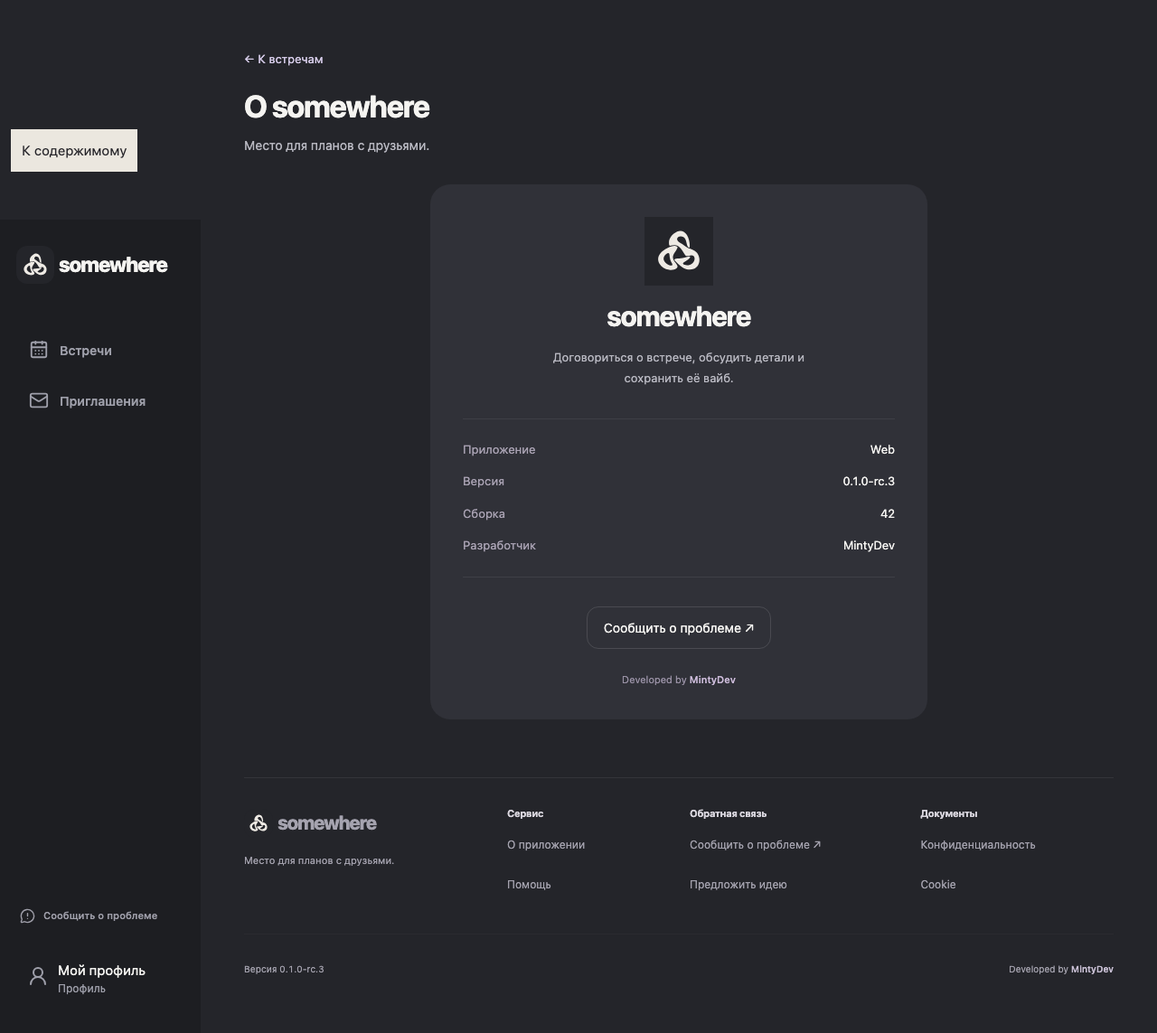
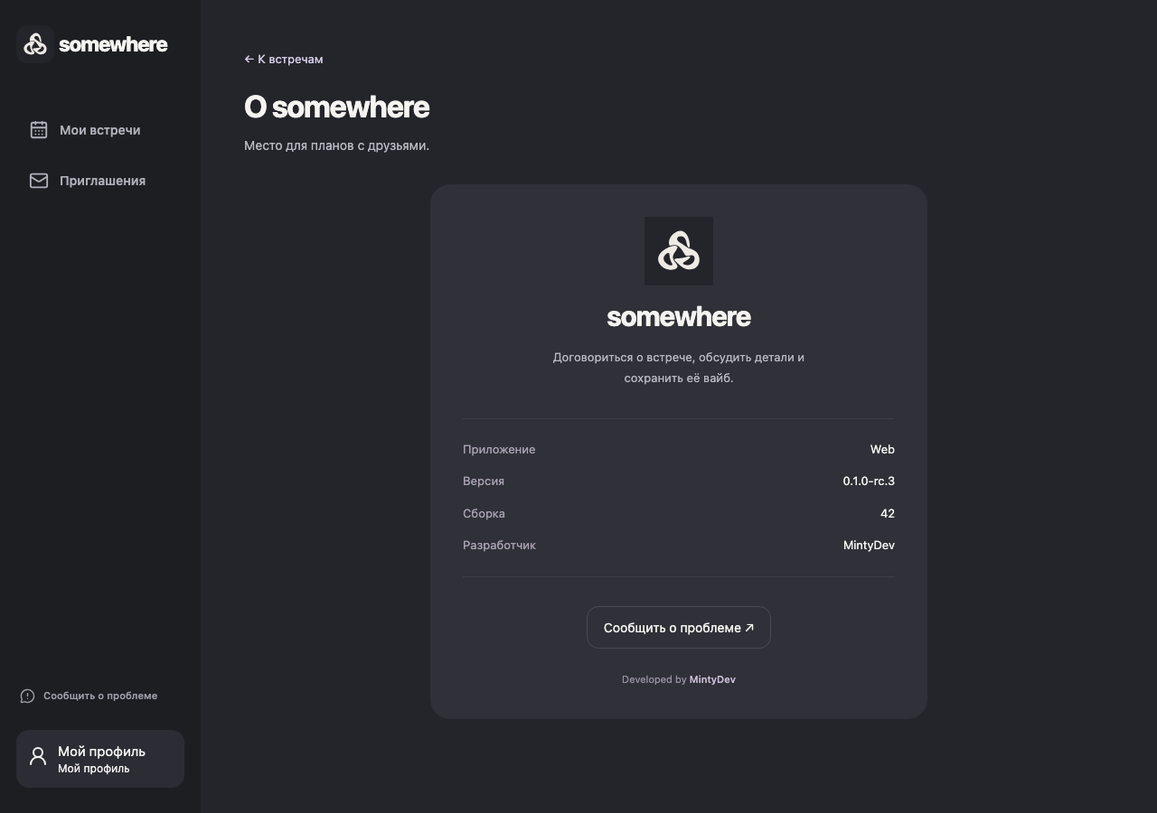
test(releases): restrict version footer to desktop onboarding

diff --git a/frontend/web/release-tests/identity.spec.ts b/frontend/web/release-tests/identity.spec.ts
@@ -48,15 +48,14 @@ test('full version is from the unpacked artifact, without login or API', async (
       .filter({ hasText: /^Сборка$/ })
       .locator('+ dd'),
   ).toHaveText(String(info.build_number));
-  const footer = page.locator('footer');
-  await expect(footer.getByText(`Версия ${info.version}`, { exact: true })).toBeVisible();
+  await expect(page.locator('footer')).toHaveCount(0);
 
   for (const width of [320, 390, 1280]) {
     await page.setViewportSize({ width, height: 900 });
-    await footer.scrollIntoViewIfNeeded();
     await expect(
-      footer.getByText(`Версия ${info.version}`, { exact: true }),
+      page.locator('dl').getByText(info.version, { exact: true }),
     ).toBeVisible();
+    await expect(page.locator('footer')).toHaveCount(0);
     expect(
       await page.evaluate(() => document.documentElement.scrollWidth <= innerWidth),
     ).toBe(true);
@@ -68,23 +67,69 @@ test('full version is from the unpacked artifact, without login or API', async (
 
   await page.setViewportSize({ width: 320, height: 900 });
   await enlargeText(page);
-  await expect(footer.getByText(`Версия ${info.version}`, { exact: true })).toBeVisible();
+  await expect(page.locator('dl').getByText(info.version, { exact: true })).toBeVisible();
   expect(
     await page.evaluate(() => document.documentElement.scrollWidth <= innerWidth),
   ).toBe(true);
+  await page.screenshot({
+    path: path.join(root, 'version-320-large-text.png'),
+    fullPage: true,
+  });
+});
+
+test('version footer appears only on desktop onboarding', async ({
+  page,
+  request,
+  browser,
+}) => {
+  await request.post('/__test/select?variant=candidate');
+  const info = readInfo('candidate');
+  await page.route('**/api/**', (route) => route.abort());
+  await page.setViewportSize({ width: 1280, height: 900 });
+  await page.goto('/');
+  const footer = page.locator('footer');
   const versionLink = footer.getByRole('link', {
     name: `Версия ${info.version}`,
     exact: true,
   });
 
+  await expect(footer).toHaveCount(1);
+  await expect(versionLink).toBeVisible();
+  await footer.screenshot({ path: path.join(root, 'version-onboarding-1280.png') });
+
+  for (const width of [320, 390, 739]) {
+    await page.setViewportSize({ width, height: 900 });
+    await expect(footer).toBeHidden();
+  }
+
+  await page.setViewportSize({ width: 740, height: 900 });
+  await expect(versionLink).toBeVisible();
+  await page.setViewportSize({ width: 1280, height: 900 });
+  await enlargeText(page);
   await versionLink.focus();
+  await expect(versionLink).toHaveAccessibleName(`Версия ${info.version}`);
   await expect(versionLink).toBeFocused();
   await page.keyboard.press('Enter');
   await expect(page).toHaveURL('/about');
-  await page.screenshot({
-    path: path.join(root, 'version-320-large-text.png'),
-    fullPage: true,
+  await expect(page.locator('dl').getByText(info.version, { exact: true })).toBeVisible();
+  await expect(footer).toHaveCount(0);
+
+  const phone = await browser.newPage({
+    viewport: { width: 844, height: 390 },
+    isMobile: true,
+    hasTouch: true,
   });
+
+  try {
+    await phone.goto(new URL('/', page.url()).toString());
+    await expect(phone.getByRole('heading', { level: 1 })).toContainText('Кто придёт');
+    expect(await phone.evaluate(() => matchMedia('(pointer: coarse)').matches)).toBe(
+      true,
+    );
+    await expect(phone.locator('footer')).toBeHidden();
+  } finally {
+    await phone.close();
+  }
 });
 
 test('an open tab keeps its identity through deployment and rollback', async ({
@@ -131,12 +176,7 @@ test('a long RC is readable at 320 px with enlarged text', async ({ page, reques
   expect(
     await page.evaluate(() => document.documentElement.scrollWidth <= innerWidth),
   ).toBe(true);
-  const link = page
-    .locator('footer')
-    .getByRole('link', { name: `Версия ${info.version}`, exact: true });
-
-  await expect(link).toHaveAccessibleName(`Версия ${info.version}`);
-  await link.click({ trial: true });
+  await expect(page.locator('footer')).toHaveCount(0);
   await page.screenshot({
     path: path.join(root, 'version-long-320.png'),
     fullPage: true,

diff --git a/openspec/changes/release-version-policy/implementation.md b/openspec/changes/release-version-policy/implementation.md
@@ -18,7 +18,9 @@
   ограничения, файлы с размерами. Секреты в карточку не включаются.
 - Web получает встроенную идентичность и `build-info.json` из одного
   проверенного объекта. Сокращения SemVer и fallback из package.json нет.
-  Футер показывает полный номер, справка — тот же номер и отдельную сборку.
+  Футер только десктопного онбординга показывает полный номер, справка на всех
+  размерах экрана — тот же номер и отдельную сборку. Внутренние страницы и
+  mobile web не содержат видимого футера; native-футер не добавляется.
   Dev/demo имеют собственные подписи. Запрос к API за версией не выполняется.
 - Проверка архива сравнивает его идентичность с manifest даже при корректно
   пересчитанных SHA256. Отдельный browser smoke открывает распакованный bundle.
@@ -31,9 +33,9 @@
 | --- | --- |
 | `python3 -m unittest discover -s scripts/release -p 'test_*.py'` | 28 passed: реальные временные Git-репозитории, RC/финал/rerun Android/iOS, порядок и независимость тегов, карточка/SHA, полный набор всех пяти компонентов, подмена версии/карточки, неизменяемость публикации, безопасная распаковка |
 | `vitest run scripts/build-identity.test.ts` | 4 passed: strict metadata, stable/RC/dev/demo/неполные данные, посторонняя VITE_APP_VERSION, разделение версии и сборки |
-| `validate_web_builds.py --output .cache/release-policy-ui-4` | Три сборки TypeScript/Vite; 3 browser tests passed |
+| `validate_web_builds.py --output .cache/release-policy-ui-8` | Три сборки TypeScript/Vite; 4 browser tests passed по UX v2 |
 | Локальное сравнение артефактов | Кандидат `0.1.0-rc.3`, предыдущий `0.1.0-rc.2`, длинный `0.12.34-rc.123`; совпали manifest/build-info/отрисованный номер; открытая вкладка сохранила старый номер, reload сменил его, возврат архива восстановил предыдущий |
-| Доступность версии | API заблокирован, вход не выполнен; 320/390/1280 px, 200% текста, фокус и Enter на ссылке версии; горизонтального переполнения нет |
+| Доступность версии | API заблокирован, вход не выполнен; справка 320/390/1280 px и 200% текста; footer на desktop onboarding, скрыт на 320/390/739 и на touch-телефоне 844×390, виден с 740 при hover/fine pointer; фокус/Enter по версии ведут в справку без footer |
 | `npm run agent:check`, strict validation обоих связанных changes, `git diff --check` | Passed |
 | Полный `npm run web:check` | Passed: TypeScript, ESLint, CSS spacing, FSD/AST, Prettier, 72 Vitest tests в 22 файлах |
 | Основной E2E | По отчёту соседнего web-агента: штатный прогон 116 passed, 1 skipped (нужны native-клиенты). `frontend/web/test-results/.last-run.json` подтверждает passed/пустой failedTests. После финальной типографики выполняется прицельная повторная проверка |
@@ -44,11 +46,19 @@
 `not_for_publication`. SHA базового HEAD не доказывает чистоту такого fixture;
 реальная сборка отдельно требует чистый checkout существующего тега.
 
+После нового решения владельца размещение пересмотрено в UX v2: footer только
+на desktop onboarding. Артефактная проверка выявила старый брендовый footer
+LandingPage рядом с ServiceFooter; web-агент удалил дубль. Повторный прогон
+подтвердил единственный footer на `/` в desktop-компоновке, его скрытие на
+mobile web (включая touch landscape 844×390) и отсутствие на `/about`. Поиск использования компонента в исходниках
+подтвердил единственное место включения: `Root`, только `pathname === '/'`.
+
 Снимки: [320 px](assets/release-identity/version-320.png),
 [390 px](assets/release-identity/version-390.png),
 [1280 px](assets/release-identity/version-1280.png),
 [200% текста](assets/release-identity/version-320-large-text.png),
-[длинный RC](assets/release-identity/version-long-320.png).
+[длинный RC](assets/release-identity/version-long-320.png),
+[футер десктопного онбординга](assets/release-identity/version-onboarding-1280.png).
 Это доказательство отображения номера; полный визуальный аудит приложения
 остаётся в `meeting-experience-refresh`.
 

diff --git a/openspec/changes/release-version-policy/verification.md b/openspec/changes/release-version-policy/verification.md
@@ -9,7 +9,7 @@
 | Dimension | Status |
 | --- | --- |
 | Completeness | 11/13 задач закрыты; реализация найдена для 11 ADDED требований. Два завершающих пункта ожидают фиксации общего web-пакета после визуальной приёмки |
-| Correctness | Все 11 требований сопоставлены с кодом; специализированные проверки прошли. Общий штатный E2E — 116 passed / 1 skipped по отчёту web-агента; финальная визуальная приёмка новой типографики ещё не завершена |
+| Correctness | Все 11 требований сопоставлены с кодом. UX v2 проверен четырьмя browser-тестами новых архивов: desktop-only footer, справка, долгий RC, обновление/откат. Штатный E2E 116 passed / 1 skipped выполнен до последнего уточнения; его повтор ещё идёт |
 | Coherence | Независимые версии, единый источник metadata, неизменяемость и границы mobile соблюдены. Web: TypeScript/FSD/aliases/style-checks прошли. REMOVED/RENAMED requirements отсутствуют |
 
 ## Requirement Implementation Mapping
@@ -22,7 +22,7 @@
 | Утверждение конкретного выпуска | prepare.py выдаёт карточку с SHA/составом/проверками без тега; read_card связывает аннотацию с Git. Договорённость владельца документируется отдельно; введённый текст не выдаётся за автоматическое одобрение |
 | Неизменяемость и смена стадии | history/publish блокируют повторное резервирование, закрытые RC-линии и существующий GitHub Release. Финал требует отдельную сборку; тест изменённой карточки останавливает публикацию до вызова gh |
 | Версия приложения и номер мобильной сборки | metadata + неизменённые android.py/ios.py; реальные временные Git-теги RC/финал, rerun и границы 1/9999 проверены для обеих платформ |
-| Полный номер открытого клиента | shared/config + ServiceFooter/AboutContent; raw SemVer в таблице рядом с подписью, полный текст в футере, отдельная сборка; browser smoke с заблокированным API |
+| Полный номер открытого клиента | shared/config + ServiceFooter/AboutContent; raw SemVer в таблице, отдельная сборка; footer проверен только на desktop onboarding (включая границу 739/740 и скрытие на touch landscape 844×390), `/about` без footer на всех ширинах с заблокированным API |
 | Достоверные метаданные выпуска | build-identity.ts strict schema; packager передаёт проверенный объект; web_identity.py сверяет архив с manifest даже после пересчёта SHA256; тесты подмены проходят |
 | Работа без релизного контекста | readBuildIdentity/describeBuild; тесты stable/RC/local/demo/ошибочных данных. Demo проверяется также сценарием 31 общего E2E |
 | Версия следует артефакту | Константа внутри JS, никакого latest API; реальное переключение трёх распакованных bundle, старая вкладка, reload и откат проверены Playwright |
@@ -36,10 +36,10 @@ manifest. Тест генератора подтверждает причину 
 
 ### CRITICAL
 
-1. **Task 4.2 ещё не закрыта:** общий функциональный прогон уже успешен,
-   но `meeting-experience-refresh` завершает визуальную проверку после изменения
-   шрифтов. Повторить затронутый browser smoke на окончательном состоянии и
-   обновить снимки, затем закрыть пункт.
+1. **Task 4.2 ещё не закрыта:** после уточнения владельца footer разрешён
+   только на desktop onboarding. Дубль LandingPage исправлен, четыре новых
+   browser smoke прошли, снимки обновлены; дождаться штатного E2E web-пакета
+   после этого уточнения.
 2. **Task 6.2 ещё не закрыта:** инфраструктурный коммит 6189f73 в main, но
    `ServiceFooter`, `AboutContent`, `shared/config/version.ts/index.ts` и
    `tests/31-release-identity.spec.ts` сохраняет соседний агент вместе со своим

diff --git a/openspec/changes/release-version-policy/tasks.md b/openspec/changes/release-version-policy/tasks.md
@@ -6,7 +6,7 @@
 ## 1. Политика и согласование артефактов
 
 - [x] 1.1 Зафиксировать принятие политики из design.md и перенести её в docs/releases.md: независимые SemVer, правила 0.x/1.x, RC, карточка выпуска, неизменяемость, mobile build numbers; проверить примеры `0.1.0 → 0.1.1 → 0.2.0-rc.1 → 0.2.0` и выполнить `npm run agent:check`.
-- [x] 1.2 Сверить актуальную реализацию и артефакты meeting-experience-refresh, синхронизировать его UX/specs версии с выбранным полным форматом и UX v1 этого изменения; добавить связь с component-releases. Проверить отсутствие противоречия «0.1»/«0.1.0» в актуальных требованиях, сохранить чужие незавершённые правки и выполнить OpenSpec strict validation.
+- [x] 1.2 Сверить актуальную реализацию и артефакты meeting-experience-refresh, синхронизировать его UX/specs версии с выбранным полным форматом и UX v2 этого изменения; добавить связь с component-releases. Проверить отсутствие противоречия «0.1»/«0.1.0» в актуальных требованиях, сохранить чужие незавершённые правки и выполнить OpenSpec strict validation.
 
 ## 2. Подготовка и проверка версий всех компонентов
 
@@ -24,8 +24,8 @@
 
 ## 4. Подпись версии в web
 
-- [x] 4.1 В shared/config убрать сокращение SemVer, предоставить одну подпись для ServiceFooter и serviceContent; показывать отдельную «Сборка N» в справке и состояния из UX v1. Проверить stable/RC/dev/demo/отсутствующие metadata, отсутствие runtime-запроса и требований авторизации; выполнить `npm run web:check` и `npm run web:build` с релизными тестовыми данными.
-- [ ] 4.2 Сверить футер и справку с ux.md v1 на 320/390/1280 px и увеличенном тексте, включая длинный RC; сохранить снимки. Проверить клавиатуру/полный доступный текст, отсутствие футера в чате/фото и выполнить `npm run web:test:e2e`. Отдельным браузерным сценарием проверить именно распакованный release bundle, поскольку обычный E2E собирает demo.
+- [x] 4.1 В shared/config убрать сокращение SemVer, предоставить одну подпись для ServiceFooter и serviceContent; показывать отдельную «Сборка N» в справке и состояния из UX v2. Проверить stable/RC/dev/demo/отсутствующие metadata, отсутствие runtime-запроса и требований авторизации; выполнить `npm run web:check` и `npm run web:build` с релизными тестовыми данными.
+- [ ] 4.2 Сверить справку с ux.md v2 на 320/390/1280 px и увеличенном тексте, включая длинный RC; проверить футер с версией только на десктопном онбординге и его отсутствие на mobile web и внутренних страницах, сохранить снимки. Проверить клавиатуру/полный доступный текст и выполнить `npm run web:test:e2e`. Отдельным браузерным сценарием проверить именно распакованный release bundle, поскольку обычный E2E собирает demo.
 
 ## 5. Совместимость mobile и остальных выпусков
 

diff --git a/openspec/changes/release-version-policy/proposal.md b/openspec/changes/release-version-policy/proposal.md
@@ -18,8 +18,10 @@
 - Встроить версию проверенного web-тега в сборку и сверять её с manifest.
   Отсутствующие либо противоречивые метаданные блокируют релизную сборку.
 - Показывать полную подпись `Версия 0.1.0` / `Версия 0.1.0-rc.3` в футере
-  и разделе «О somewhere»; номер CI-сборки показывать отдельно только в справке.
+  только десктопного онбординга и в разделе «О somewhere» на всех размерах экрана;
+  номер CI-сборки показывать отдельно только в справке.
   Пользователь подтвердил полный формат 25.10.2026 вместо краткой подписи `0.1`.
+  Позднейшее решение того же дня исключает футер с внутренних и мобильных экранов.
 - Сохранить существующее разделение пользовательской версии и мобильного
   build number; номера разных приложений не обязаны совпадать.
 
@@ -48,4 +50,4 @@
 
 UX ограничен подписью в существующих футере и справке; до реализации подготовлен
 [ux.md](ux.md) с эскизом и состояниями. План не создаёт теги, не запускает релизы,
-не меняет production и не означает принятия всей политики владельцем.
+не меняет production. Политика и реализация разрешены пользователем 25.10.2026.
